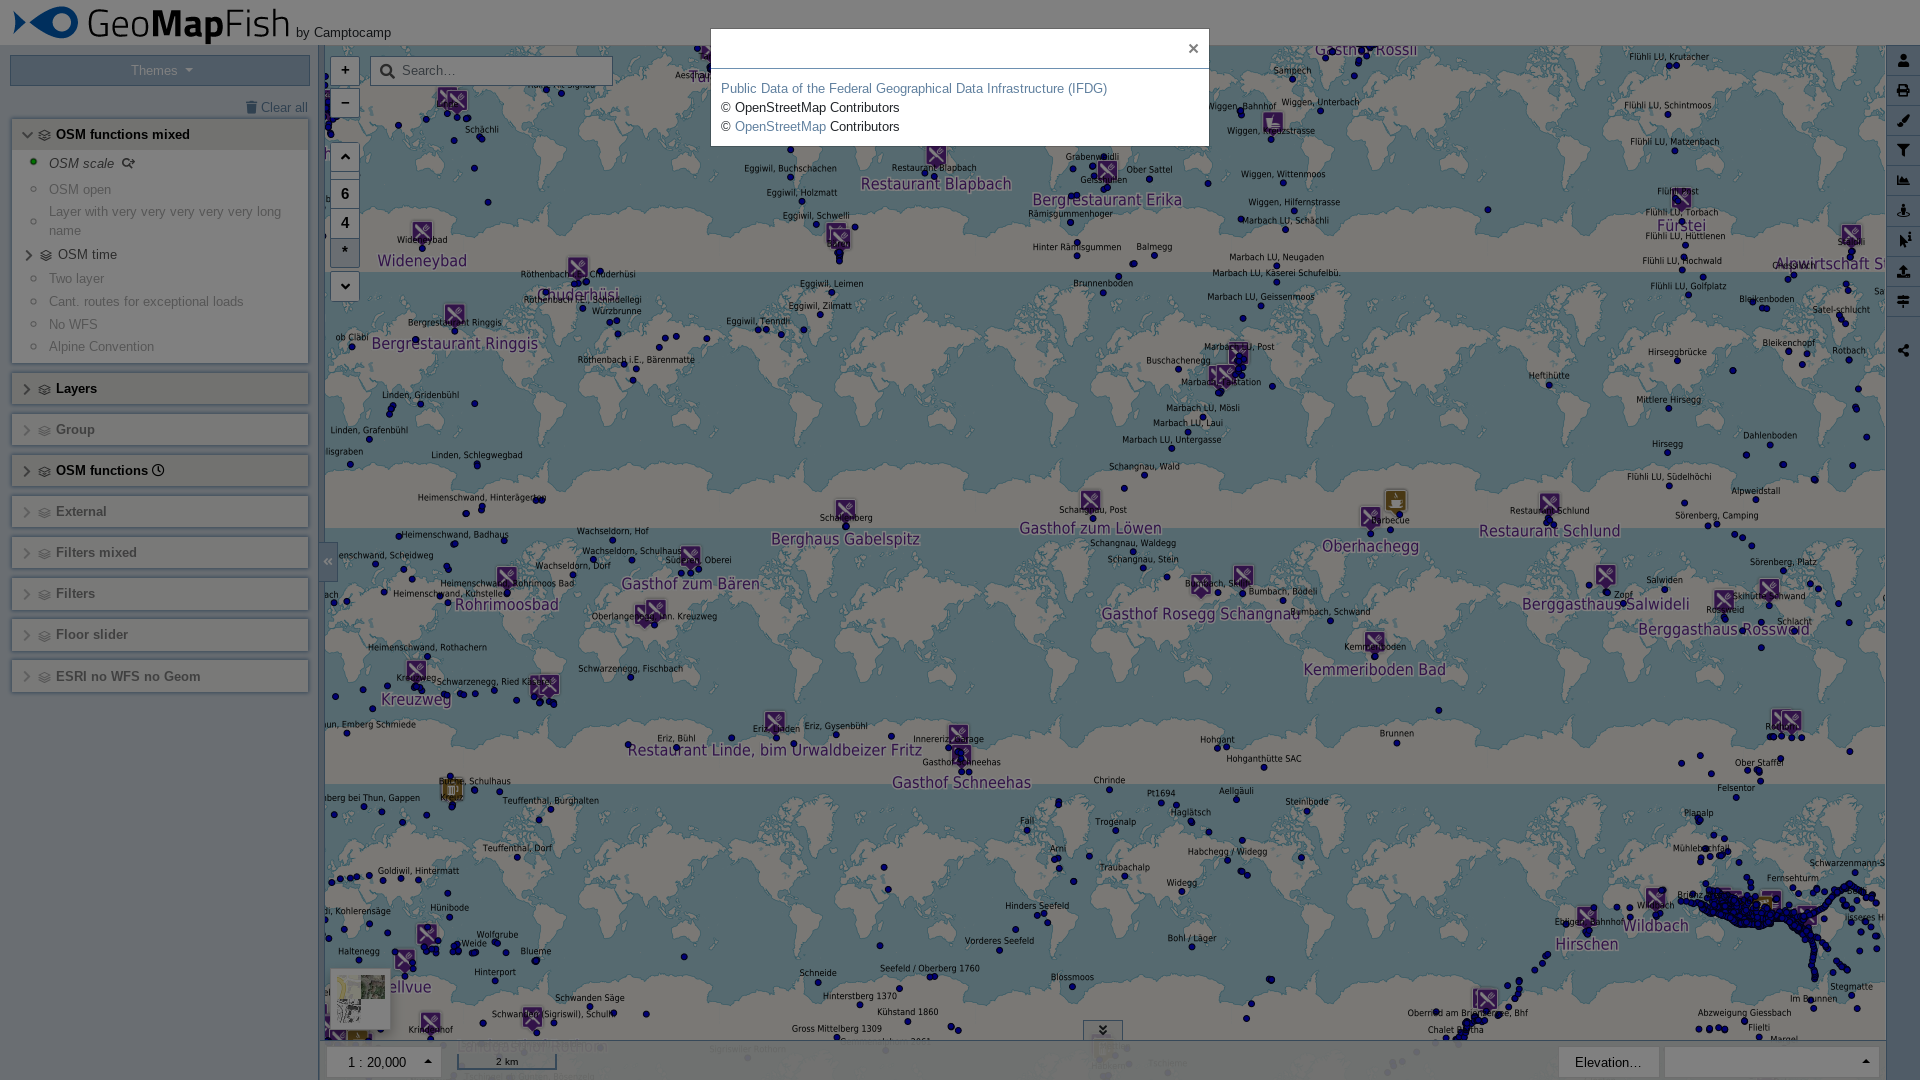
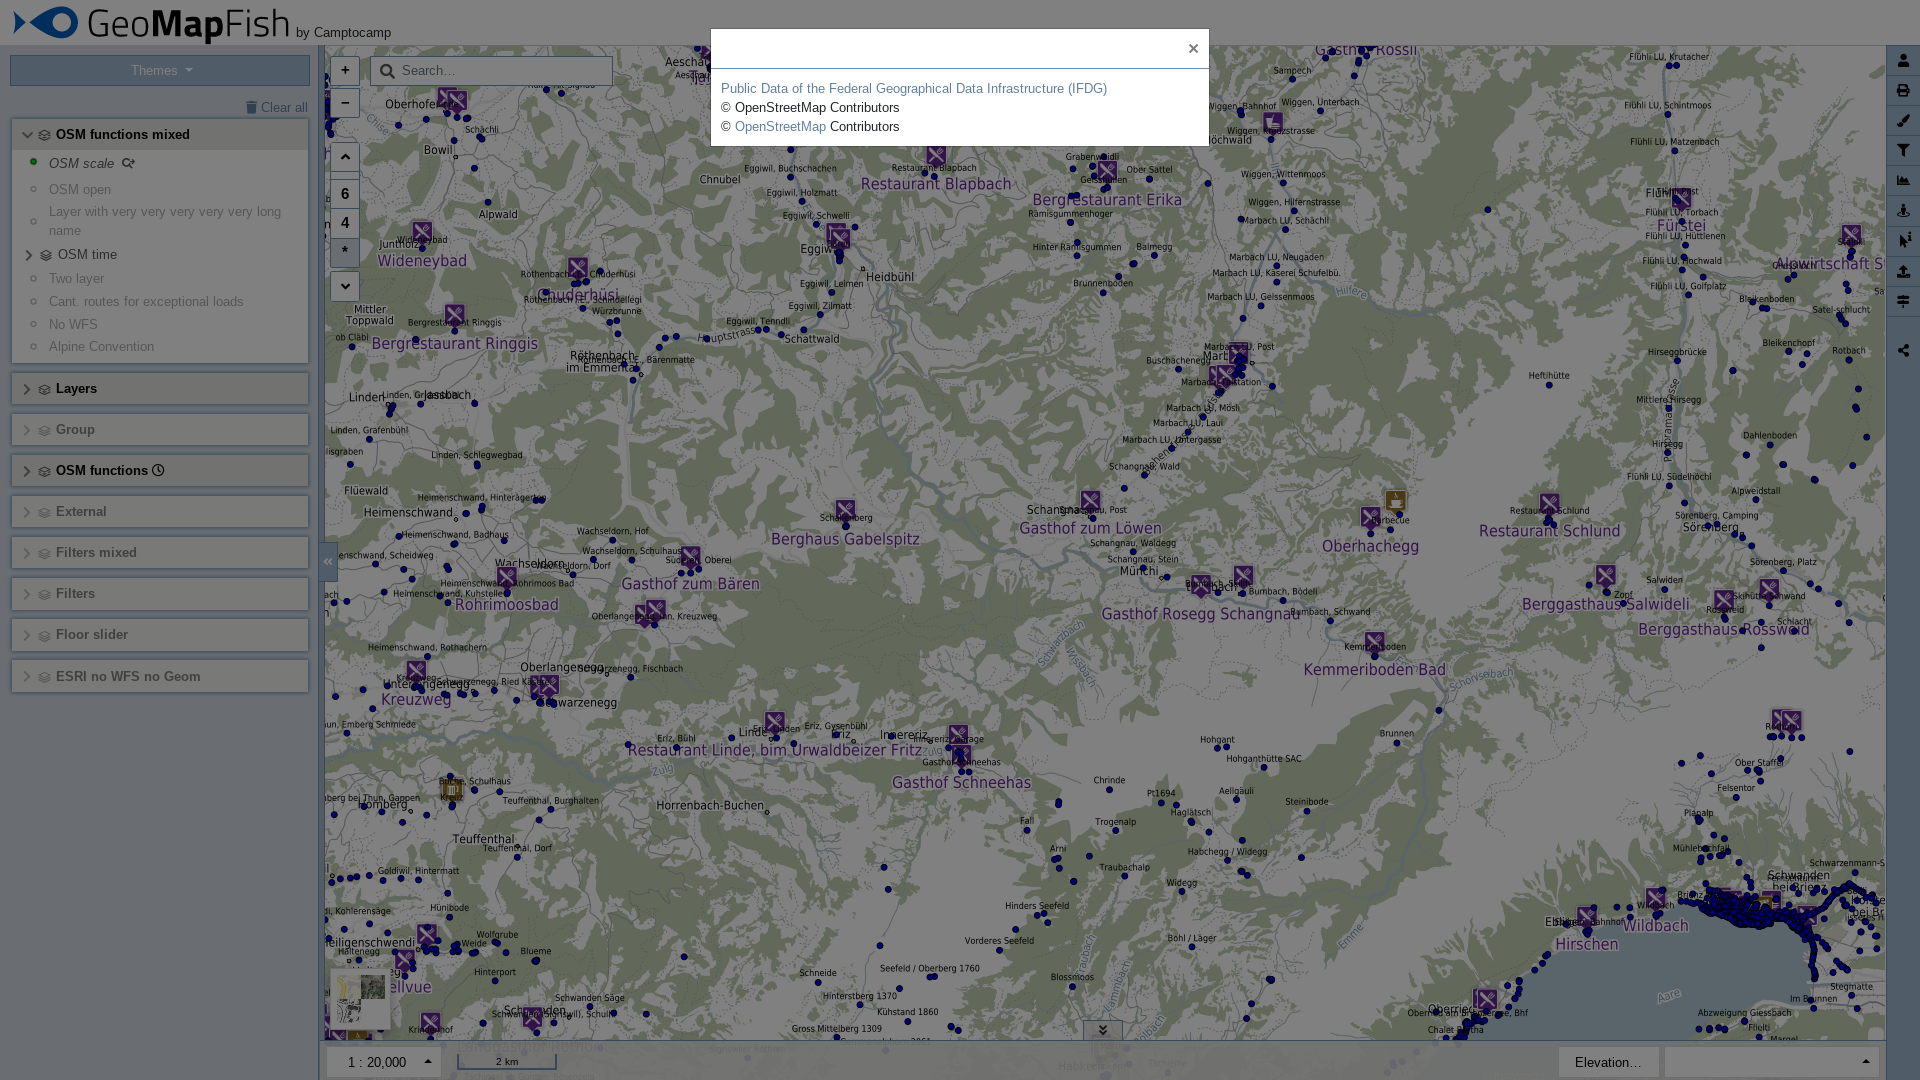
Initialize map with opacity 0 for background layer slider

diff --git a/contribs/gmf/src/backgroundlayerselector/component.js b/contribs/gmf/src/backgroundlayerselector/component.js
@@ -265,7 +265,7 @@ Controller.prototype.setLayer = function(layer, opt_silent) {
  * @param {import("ol/layer/Base.js").default} layer The opacity background layer.
  */
 Controller.prototype.setOpacityBgLayer = function(layer) {
-  const opacity = this.opacityLayer ? this.opacityLayer.getOpacity() : layer.getOpacity();
+  const opacity = this.opacityLayer ? this.opacityLayer.getOpacity() : 0;
   layer.setOpacity(opacity);
   this.opacityLayer = layer;
   this.opacityLayer.setVisible(opacity !== 0);
